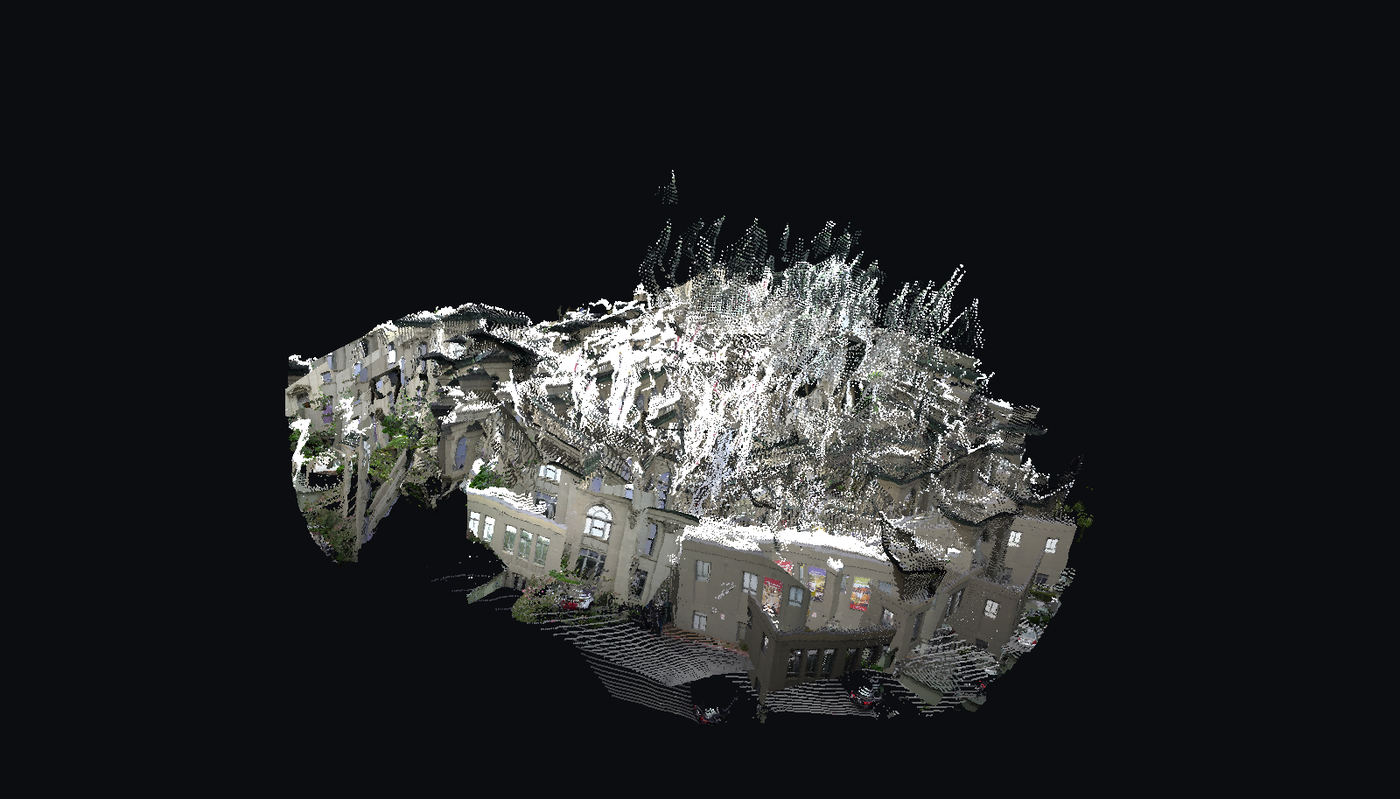
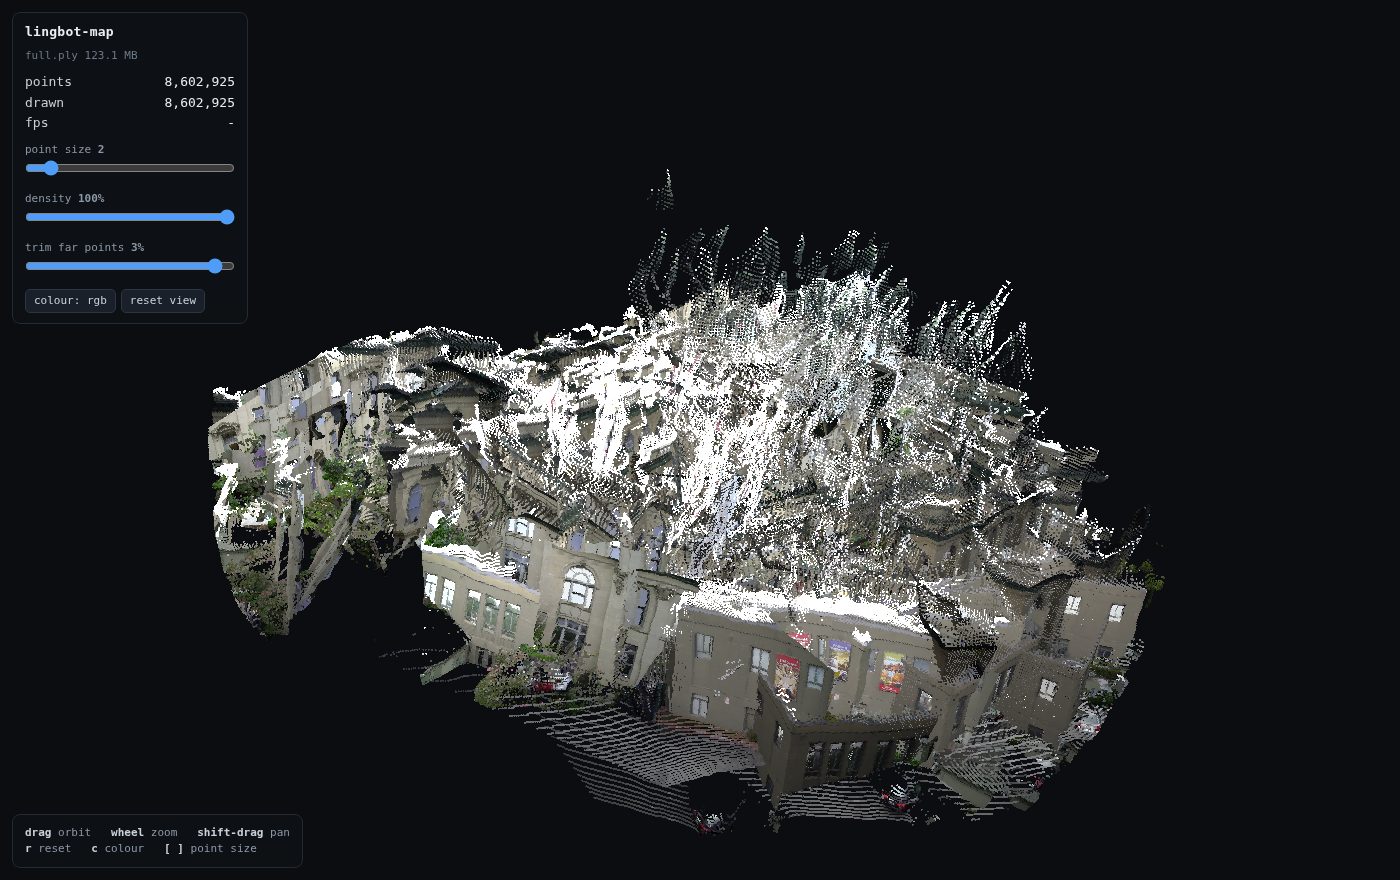
lingbot-map 0.4.2 — the viewer looked like it hung; it was an overlay
Reported from a real browser: the cloud downloads, the message changes to
"building the point buffer...", and it stays there for ever, at every
cloud size.

The cloud was loading and rendering perfectly the whole time, behind an
opaque overlay that never went away. `el.hidden = true` sets an
attribute, and the UA stylesheet turns that into `display: none` with a
plain TYPE selector — which any author rule outranks. `#status` set
`display: grid`, an ID rule, so it won, and the loading screen sat on top
of a finished render at z-index 5. One line fixes it, and every page
should carry it:

    [hidden] { display: none !important; }

Two things about how this got missed, which matter more than the fix.

The render check reads the GL framebuffer with gl.readPixels, so it saw a
perfect cloud and never saw the DOM stacked over it. It answers "did the
GPU draw", not "can a person see it". tests/viewer_shot.sh now also
asserts the overlay's COMPUTED display is none — not its hidden
attribute, which was set the entire time the bug existed and was the one
thing that was true and meaningless. Verified against a copy of the 0.4.1
page: it fails with "the loading overlay is still VISIBLE (display:
grid)" while reporting 138 304 lit pixels in the same breath, which is
the exact shape of the bug.

And when Chrome's --screenshot kept returning the loading screen while
--dump-dom showed the page settled with 590 002 points parsed, I
[…]

diff --git a/packages/lingbot-map/views/viewer.html b/packages/lingbot-map/views/viewer.html
@@ -6,6 +6,11 @@
 <title>lingbot-map viewer</title>
 <style>
   :root { color-scheme: dark; }
+  /* The UA stylesheet hides [hidden] with a type selector, which ANY author
+     rule outranks — and #status sets display:grid. Without this the loading
+     overlay stays on screen for ever, opaque, on top of a cloud that has in
+     fact finished loading and is rendering happily underneath it. */
+  [hidden] { display: none !important; }
   html, body { margin: 0; height: 100%; overflow: hidden; background: #0b0d10;
                font: 13px/1.45 ui-monospace, SFMono-Regular, Menlo, Consolas, monospace;
                color: #c8d0d8; }
@@ -237,10 +242,10 @@ var Q = new URLSearchParams(location.search);
    sky and nothing else, and it is what makes the first frame legible */
 var DEFAULT_TRIM = 0.98;
 /* ?probe=N renders N frames and then writes the canvas back into the DOM as
-   a data URL. Headless Chrome's --screenshot grabs a compositor frame that
-   can predate the WebGL draw, while --dump-dom always reflects the finished
-   page; this is what lets tests/viewer_shot.sh see what was actually drawn.
-   preserveDrawingBuffer is only paid for when probing. */
+   a data URL, so tests/viewer_shot.sh can check what the GPU actually drew
+   rather than what the page claims. That is a narrower question than a
+   screenshot answers: it isolates the draw from everything the DOM is doing
+   on top of it. preserveDrawingBuffer is only paid for when probing. */
 var PROBE = parseInt(Q.get("probe") || "0", 10);
 var cv = $("gl"), gl = cv.getContext("webgl2",
   { antialias: false, alpha: false, preserveDrawingBuffer: PROBE > 0 });
@@ -385,7 +390,11 @@ function boot(data, label) {
 
     frames++; acc += now - last; last = now;
     if (acc > 500) {
-      $("fps").textContent = (frames * 1000 / acc).toFixed(0);
+      /* Ten frames minimum before quoting a rate. One frame over half a
+         second is not a measurement, and under a virtual clock — a headless
+         capture, a backgrounded tab — it is an invented number that looks
+         like a real one. Better to say nothing. */
+      $("fps").textContent = frames >= 10 ? (frames * 1000 / acc).toFixed(0) : "-";
       $("nd").textContent = drawn.toLocaleString();
       frames = 0; acc = 0;
     }
@@ -395,10 +404,9 @@ function boot(data, label) {
 
   if (PROBE > 0) {
     /* Probing draws its frames right here rather than waiting on the
-       animation loop. A headless browser running on a virtual clock is
-       under no obligation to deliver a requestAnimationFrame callback at
-       all, and a test that depends on one reports "nothing was drawn" for
-       a viewer that draws perfectly. */
+       animation loop: a browser on a virtual clock is under no obligation
+       to deliver a requestAnimationFrame callback, and a test that waits
+       for one can hang or report nothing drawn. */
     for (var f = 0; f < PROBE; f++) frame(performance.now());
     probeOut();
     return;
@@ -427,6 +435,10 @@ function probeOut() {
   d.setAttribute("data-mean", lit ? [Math.round(r / lit), Math.round(g / lit),
                                      Math.round(b / lit)].join(",") : "");
   d.setAttribute("data-points", String(total));
+  /* The COMPUTED display of the loading overlay, not its hidden attribute.
+     The attribute was set the whole time the overlay was covering the
+     render; only the computed style knew the difference. */
+  d.setAttribute("data-overlay", getComputedStyle($("status")).display);
   d.textContent = cv.toDataURL("image/png");
   d.style.display = "none";
   document.body.appendChild(d);

diff --git a/packages/lingbot-map/CHANGELOG.md b/packages/lingbot-map/CHANGELOG.md
@@ -1,5 +1,42 @@
 # Changelog
 
+## 0.4.2
+
+**The viewer looked like it hung, at every cloud size.** The cloud
+downloaded, the message changed to "building the point buffer...", and
+that is where it stayed — for ever. Reported from a real browser; every
+automated check had been passing throughout.
+
+The cloud was in fact loading and rendering perfectly the whole time,
+behind an opaque overlay that never went away. `el.hidden = true` sets an
+attribute, and the UA stylesheet turns that into `display: none` with a
+plain type selector — which **any** author rule outranks. `#status` set
+`display: grid`, an ID rule, so it won. The loading screen stayed on top
+of a finished render at `z-index: 5`.
+
+One line fixes it, and every page should carry it:
+
+```css
+[hidden] { display: none !important; }
+```
+
+**Two things about how this got missed, because they are the real
+lesson.** The render check reads the GL framebuffer with `gl.readPixels`,
+so it saw a perfect cloud and never saw the DOM stacked on top of it — it
+answers "did the GPU draw", not "can a person see it". And when Chrome's
+`--screenshot` kept returning the loading screen while `--dump-dom`
+showed the page settled with 590 002 points parsed, that was diagnosed as
+a stale compositor frame in Chrome. It was not. The screenshot was
+photographing the actual bug, faithfully, every time; the DOM check was
+reading the `hidden` attribute, which was the one thing that was true and
+meaningless. The comments and notes that blamed Chrome are corrected.
+
+`tests/viewer_shot.sh` now also asserts the overlay's **computed**
+`display` is `none`, which is the thing the attribute could not tell it.
+Verified against a copy of the 0.4.1 page: it fails with `the loading
+overlay is still VISIBLE (display: grid)` while simultaneously reporting
+138 304 lit pixels — the exact shape of the bug.
+
 ## 0.4.1
 
 **0.4.0 printed the wrong version.** `--version` said `lingbot-map 0.3.0`

diff --git a/packages/lingbot-map/README.md b/packages/lingbot-map/README.md
@@ -46,10 +46,10 @@ wrote 8602925 points to cloud.ply  (286 frames, 108624 ms)
 
 ![286 frames of the courthouse walk, in the built-in viewer](docs/viewer.png)
 
-> 8 602 925 points from 286 frames, drawn in the browser by the viewer
-> below. Facades, shopfronts, the crossing, the parked cars — and the
+> The viewer as it opens: 8 602 925 points from 286 frames, drawn in the
+> browser. Facades, shopfronts, the crossing, the parked cars — and the
 > white haze through the middle is sky, which is what the **trim** control
-> is for.
+> is for. (Captured headlessly, hence the blank frame rate.)
 
 Point it at a cloud:
 
